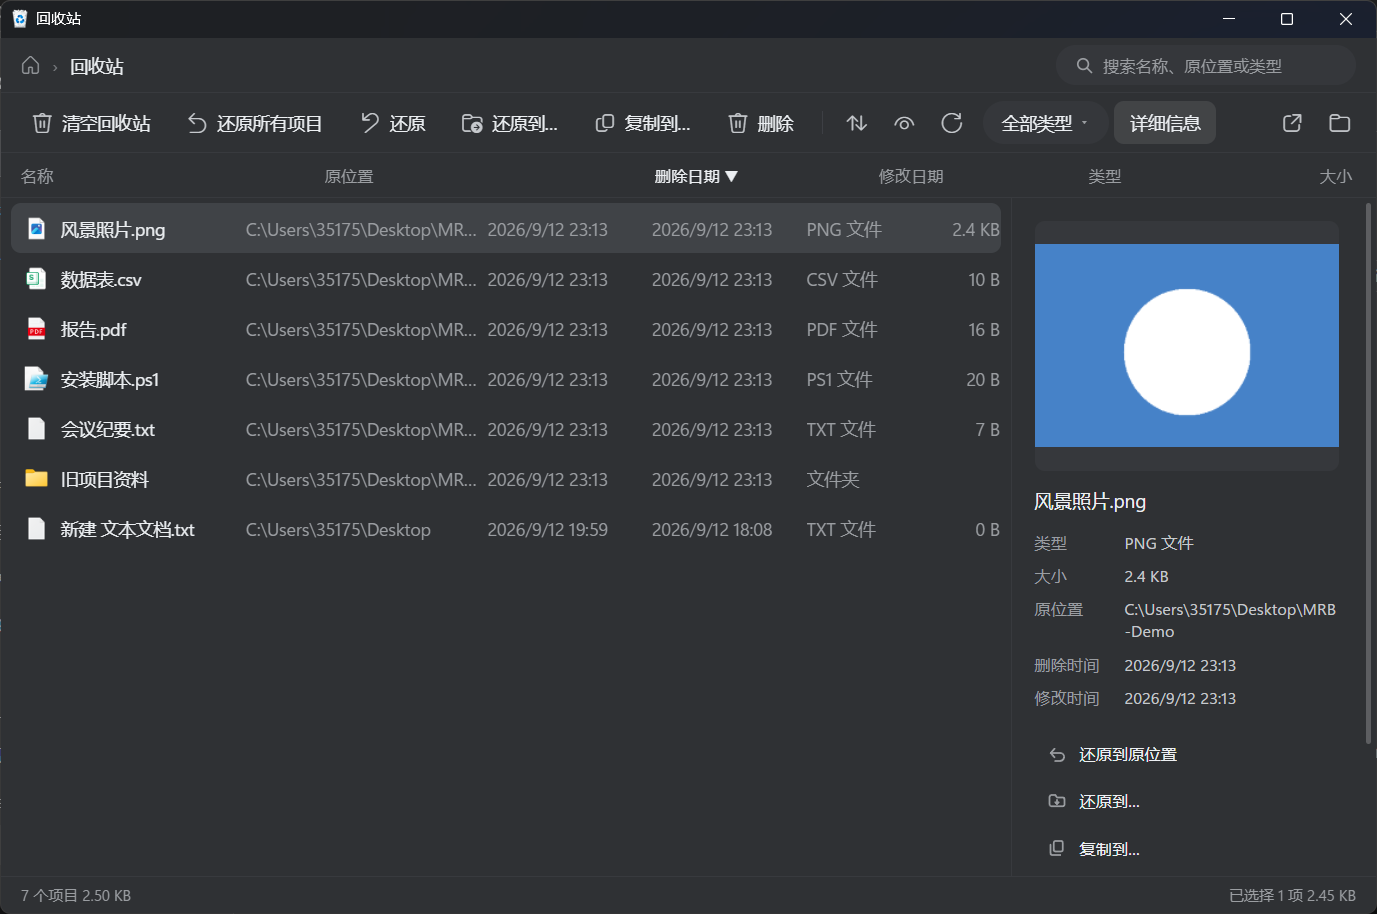
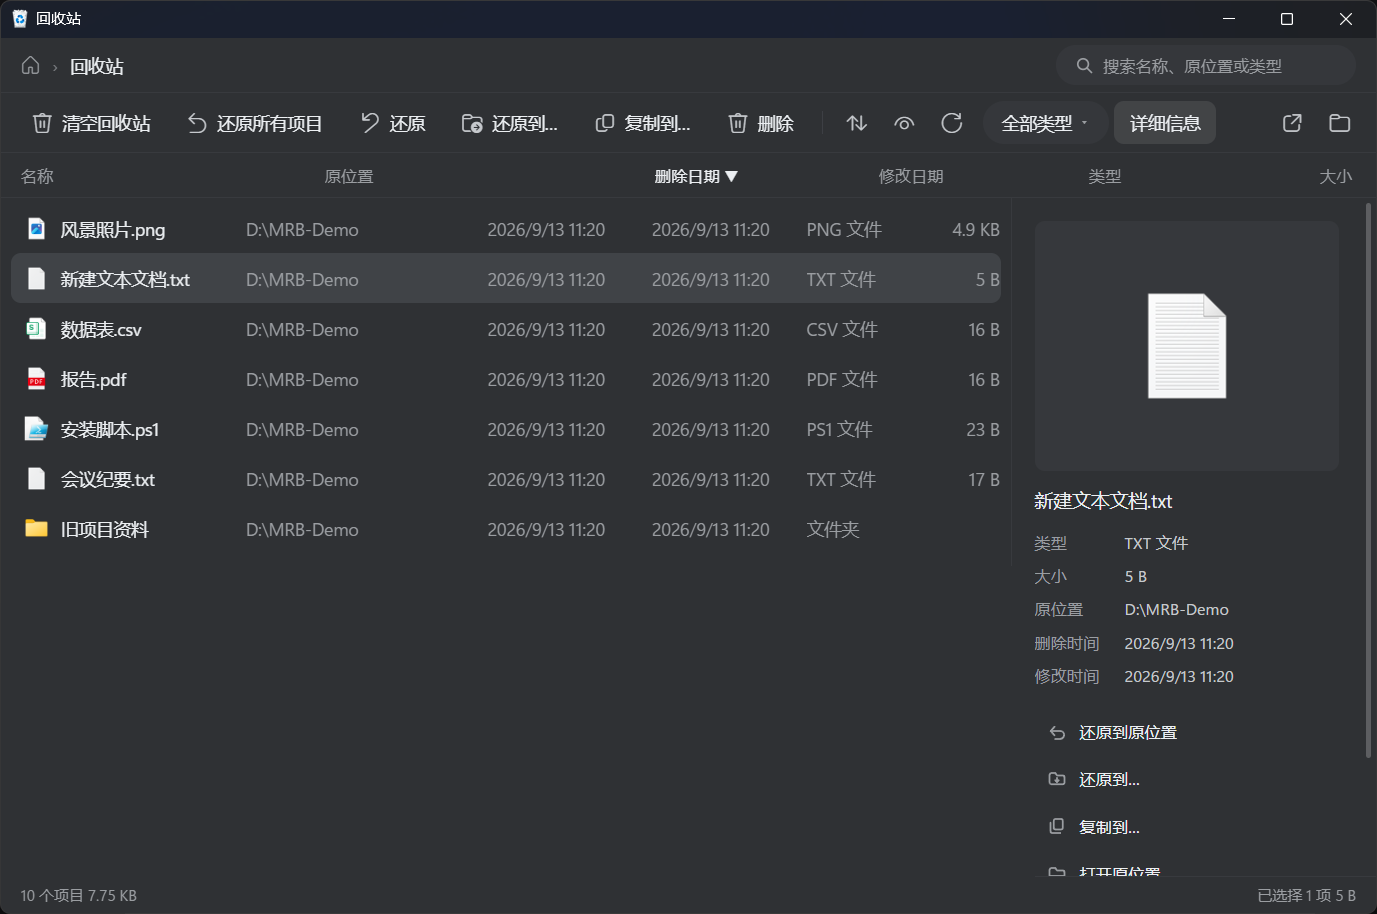
polish: two-level title bar, re-shot screenshots at 1.3.0
The app name and version sat in one flat grey line; the name is now brighter and the version recedes. Every README screenshot is re-shot at this version - the published ones still said 1.2.0. The Recycle Bin shot is rebuilt as well: the old one carried C:\Users\<name> through the original-location column and the details pane, so the demo data now lives in D:\MRB-Demo and the shot contains no user path.

diff --git a/installer/Setup.cs b/installer/Setup.cs
@@ -42,7 +42,7 @@ using Microsoft.Win32;
 internal static class Program
 {
     internal const string AppName = "Files Companion";
-    internal const string Version = "1.2.3";
+    internal const string Version = "1.3.0";
     internal const string RecycleBinClsid = "{645FF040-5081-101B-9F08-00AA002F954E}";
 
     internal static bool Silent;
@@ -783,8 +783,15 @@ internal sealed class SetupForm : Form
         using (var b = new LinearGradientBrush(new Rectangle(cx - r, cy - r, r * 2, r * 2), Theme.AccentHi, Theme.Accent, 45f))
             g.FillPath(b, p);
 
-        TextRenderer.DrawText(g, Program.AppName + "  " + Program.Version, _fSmall,
-            new Point(cx + S(18), cy - S(8)), Theme.InkFaint, TextFormatFlags.NoPadding);
+        // The app name carries the brand, the version is reference data - two
+        // weights, so the eye lands on the name first instead of reading one
+        // flat grey line.
+        int tx = cx + S(18), ty = cy - S(8);
+        TextRenderer.DrawText(g, Program.AppName, _fSmall, new Point(tx, ty), Theme.InkDim, TextFormatFlags.NoPadding);
+        Size nameSize = TextRenderer.MeasureText(g, Program.AppName, _fSmall,
+            new Size(int.MaxValue, int.MaxValue), TextFormatFlags.NoPadding);
+        TextRenderer.DrawText(g, Program.Version, _fSmall,
+            new Point(tx + nameSize.Width + S(8), ty), Theme.InkFaint, TextFormatFlags.NoPadding);
 
         // close button
         var box = CloseRect;

diff --git a/docs/RELEASE-NOTES-v1.3.0.md b/docs/RELEASE-NOTES-v1.3.0.md
@@ -1,0 +1,38 @@
+## Files Companion 1.3.0 — installing it is now one line
+
+### New
+
+**A one-click install path, built for networks where `github.com` does not
+answer.** Paste this into PowerShell and it fetches the newest release and starts
+it:
+
+```powershell
+irm https://ghfast.top/https://raw.githubusercontent.com/Dannyzzy/Files-Companion/main/Install-FilesCompanion.cmd -OutFile "$env:TEMP\fc-install.cmd"; & "$env:TEMP\fc-install.cmd"
+```
+
+What makes it worth having rather than just a download link:
+
+- **It downloads through PowerShell, not `curl`.** An accelerator sets a Windows
+  proxy that `curl` ignores — so "the browser opens GitHub, but the download times
+  out at 0 bytes" is a real state on a real machine. Measured here, not guessed.
+- **Direct first, then the [ghfast.top](https://ghfast.top) mirror**, so it works
+  with or without an accelerator.
+- **The download is size-checked.** A truncated transfer or an error page never
+  reaches the installer pretending to be one.
+- **It never fails quietly.** When both channels fail it prints every address it
+  tried, plus the manual steps.
+
+### Changed
+
+- **The title bar now reads as two levels.** The app name and the version number
+  used to sit in one flat grey line; the name is now brighter and the version
+  recedes, so the eye lands on the brand first.
+- Screenshots in the README are re-shot at this version — the published installer
+  screenshot still said 1.2.0.
+
+### Also in this release
+
+Everything from **1.2.3**, for anyone upgrading from 1.2.2 or earlier: `--verify`
+no longer reports a working, hand-installed Recycle Bin as missing, and
+`--doctor` reports the real display DPI (120 at 125% scaling) instead of a
+virtualised 96.
